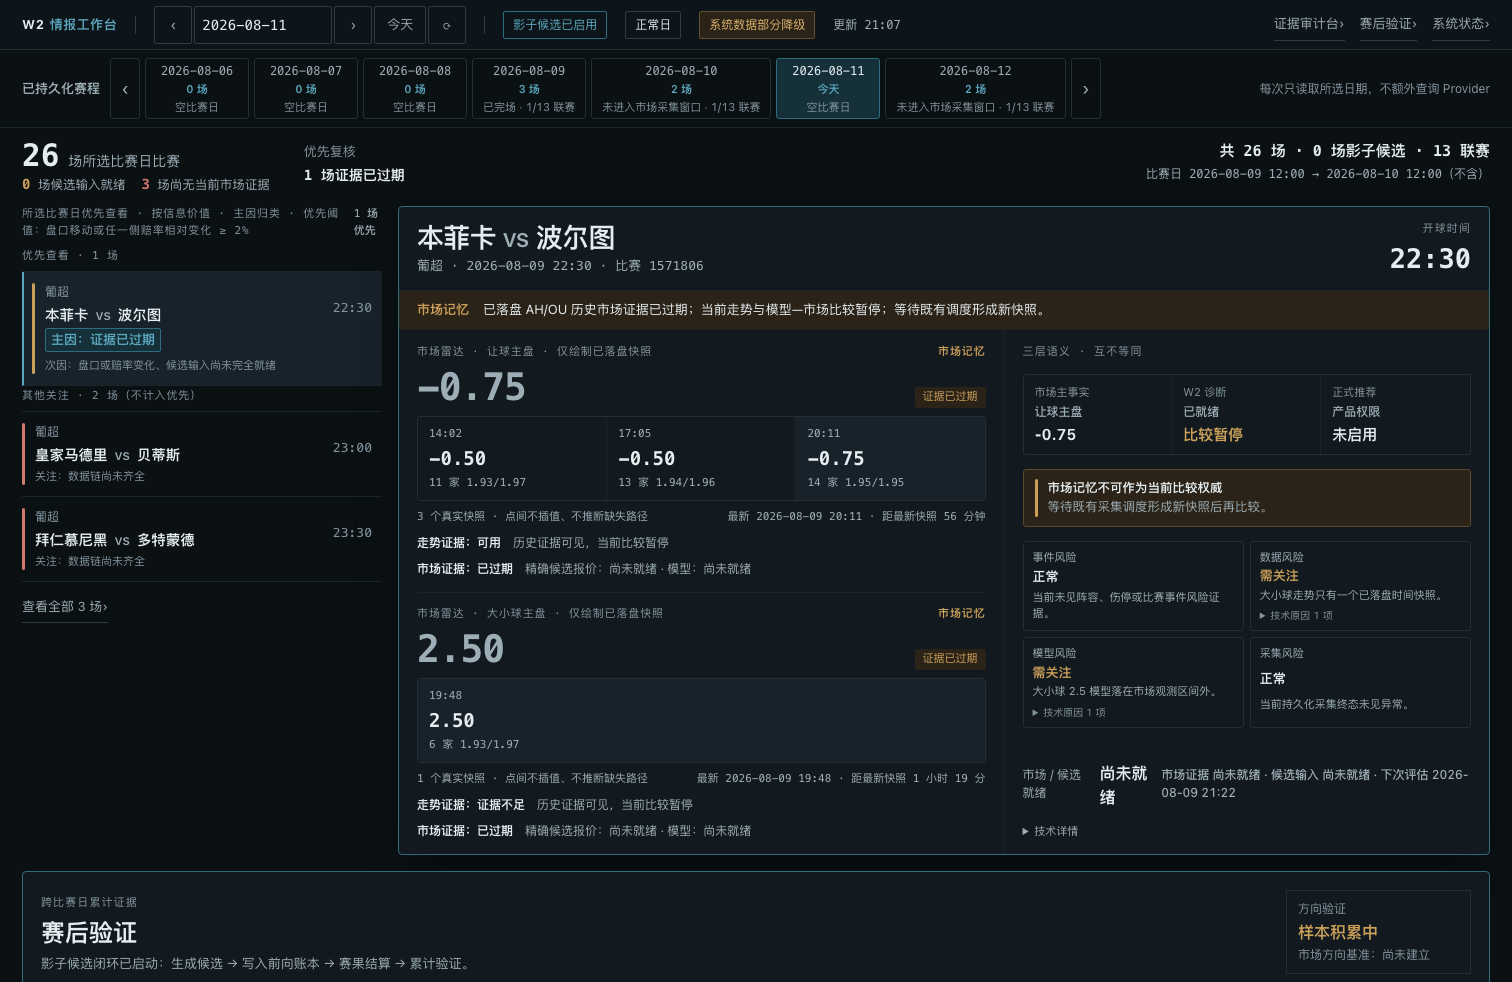
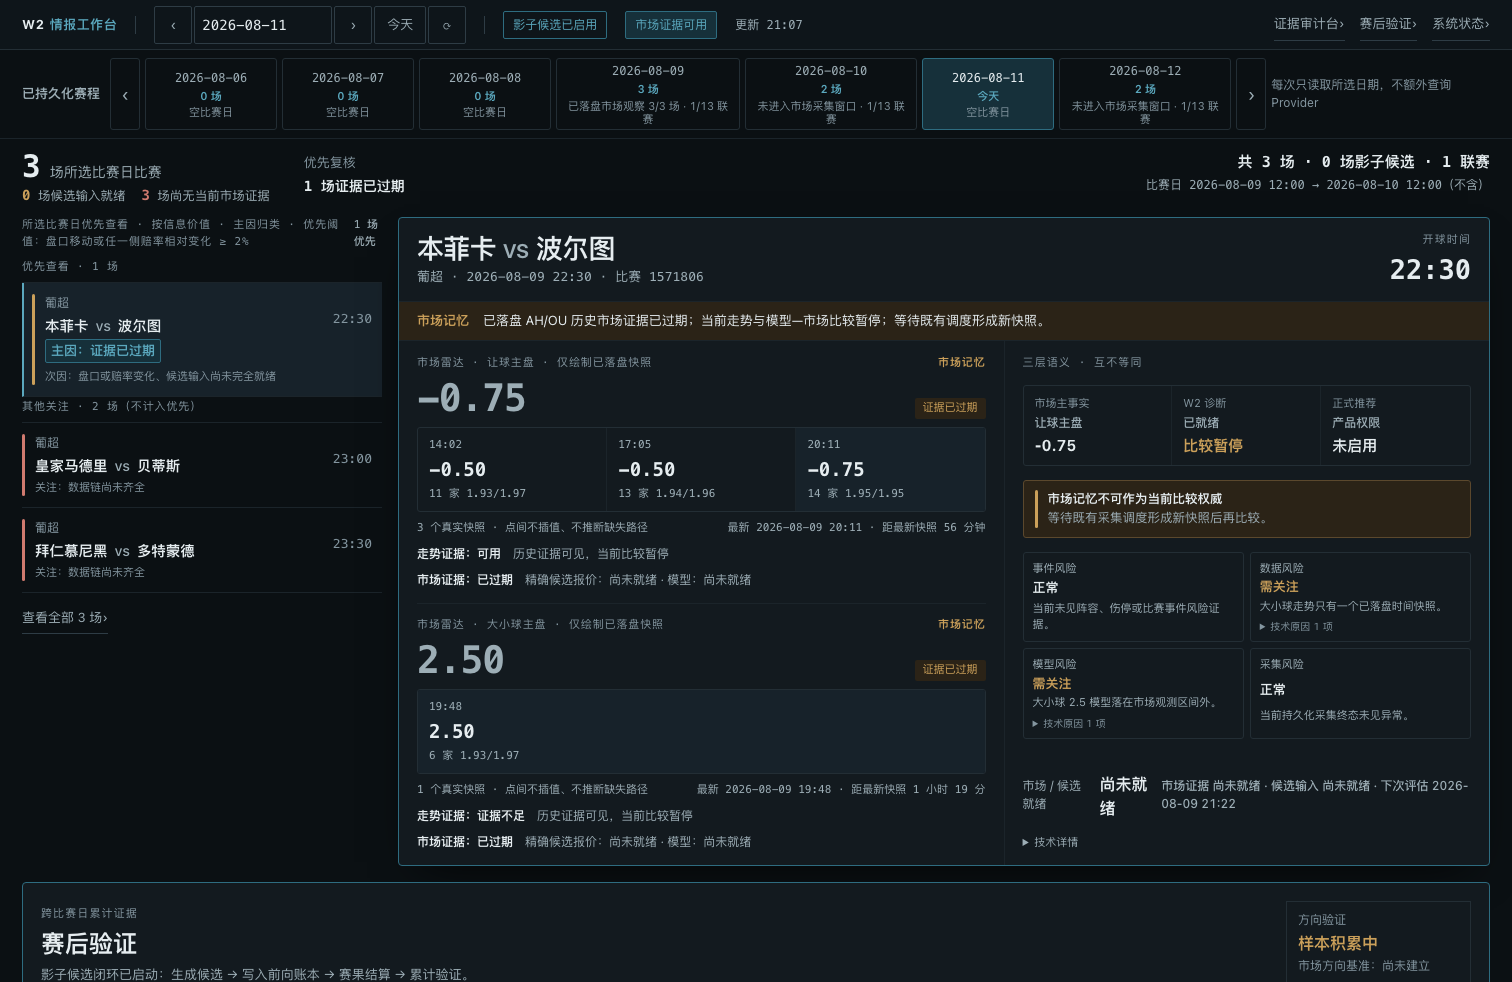
fix(dashboard): contain date-strip status copy

diff --git a/apps/web/e2e/decision-contract.spec.ts b/apps/web/e2e/decision-contract.spec.ts
@@ -539,6 +539,24 @@ test("SC19 date strip exposes persisted counts and collection-window truth", asy
   await expect(strip.getByText("2026-08-16", { exact: true })).toBeVisible();
 });
 
+test("mobile date strip keeps every status inside its own card", async ({ page }) => {
+  await page.setViewportSize({ width: 390, height: 844 });
+  await installWorkspace(page);
+  await page.goto("/");
+  const strip = page.getByRole("navigation", { name: "近七日比赛浏览" });
+  const statuses = strip.locator("button em");
+  await expect(statuses).toHaveCount(7);
+  const contained = await statuses.evaluateAll((items) => items.every((item) => {
+    const card = item.closest("button")!.getBoundingClientRect();
+    const status = item.getBoundingClientRect();
+    return status.left >= card.left && status.right <= card.right
+      && status.top >= card.top && status.bottom <= card.bottom
+      && item.scrollWidth <= item.clientWidth && item.scrollHeight <= item.clientHeight;
+  }));
+  expect(contained).toBe(true);
+  expect(await page.evaluate(() => document.documentElement.scrollWidth <= document.documentElement.clientWidth)).toBe(true);
+});
+
 test("V41 empty-day adjacent controls change the requested football day", async ({ page }) => {
   const requestedDates: string[] = [];
   await page.route("**/v1/dashboard/intelligence-workspace?**", (route) => { requestedDates.push(new URL(route.request().url()).searchParams.get("date") || ""); return route.fulfill({ status: 200, json: workspace("empty") }); });

diff --git a/apps/web/src/intelligence.css b/apps/web/src/intelligence.css
@@ -238,17 +238,19 @@ summary {
 
 .v41-recent-days > span:first-child {
   display: flex;
+  flex: 0 0 auto;
   align-items: center;
   margin-right: 5px;
   color: var(--v41-ink-2);
   font-size: 13px;
   font-weight: 600;
+  white-space: nowrap;
 }
 
 .v41-recent-days button {
   display: grid;
-  min-width: 104px;
-  min-height: 42px;
+  min-width: 132px;
+  min-height: 56px;
   place-content: center;
   gap: 1px;
   padding: 3px 10px;
@@ -257,6 +259,7 @@ summary {
   background: transparent;
   color: var(--v41-ink-2);
   cursor: pointer;
+  overflow: hidden;
 }
 
 .v41-recent-days button:hover,
@@ -278,10 +281,15 @@ summary {
 }
 
 .v41-recent-days button em {
+  width: 100%;
+  min-width: 0;
   color: var(--v41-ink-3);
   font-size: 11px;
   font-style: normal;
-  white-space: nowrap;
+  line-height: 1.25;
+  overflow-wrap: anywhere;
+  text-align: center;
+  white-space: normal;
 }
 
 .v41-recent-days .v41-window-control {
@@ -1422,6 +1430,10 @@ summary {
 .v41-validation-technical code {
   margin-right: 8px;
   color: var(--v41-ink-3);
+}
+
+#history p code {
+  margin-right: 8px;
 }
 
 .v41-secondary {
